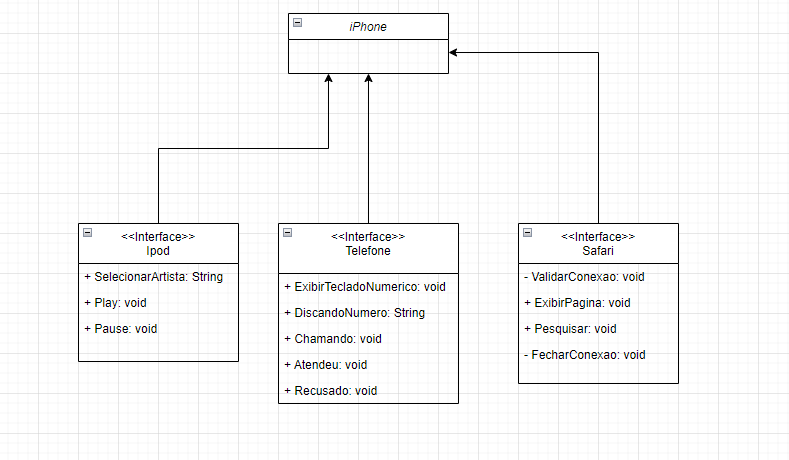
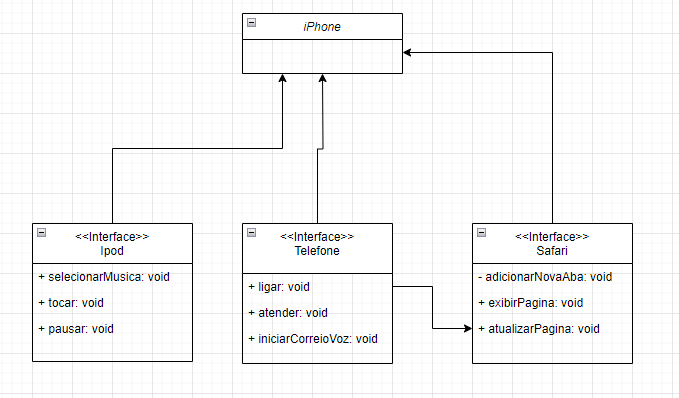
feat: Adjustments to documents and class

diff --git a/src/iphone/phone/iPhone.java b/src/iphone/phone/iPhone.java
@@ -1,0 +1,57 @@
+package iphone.phone;
+
+import iphone.interfaces.Ipod;
+import iphone.interfaces.Safari;
+import iphone.interfaces.Telefone;
+
+public class iPhone implements Safari, Telefone, Ipod{
+
+    @Override
+    public void selecionarMusica() {
+        System.out.println("Musica selecionada.");
+    }
+    
+    @Override
+    public void tocar() {
+        System.out.println("Musica tocando..");
+    }
+
+    @Override
+    public void pausar() {
+        System.out.println("Musica pausada.");
+    }
+    
+    @Override
+    public void ligar() {
+        System.out.println("Ligando");
+    }
+    
+    @Override
+    public void iniciarCorreioDeVoz() {
+        System.out.println("Iniciando correio de voz...");
+    }
+    
+    @Override
+    public void atender() {
+        System.out.println("Iniciando chamada");
+    }
+    
+    @Override
+    public void exibirPagina() {
+        System.out.println("Exibindo pagina");
+    }
+    
+    @Override
+    public void adicionarNovaAba() {
+        System.out.println("Adicionando nova aba.");
+    }
+
+    @Override
+    public void atualizarPagina() {
+        System.out.println("Pagina atuaizada");
+    }
+
+    
+  
+    
+}

diff --git a/src/iphone/user/User.java b/src/iphone/user/User.java
@@ -5,10 +5,10 @@ import iphone.phone.iPhone;
 public class User {
     public static void main(String[] args) {
         iPhone iphone = new iPhone();
-        iphone.exibirPagina();
 
-        iphone.pesquisar();
-        
-        
+        iphone.exibirPagina();
+        iphone.adicionarNovaAba();
+        iphone.atualizarPagina();
+
     }
 }

diff --git a/src/iphone/interfaces/Safari.java b/src/iphone/interfaces/Safari.java
@@ -1,11 +1,10 @@
 package iphone.interfaces;
 
 public interface Safari {
-    public void validarConexao();
     public void exibirPagina();
+    public void adicionarNovaAba();
+    public void atualizarPagina();
     
-    public void pesquisar();
-    public void fecharConexao();
 
     
 }

diff --git a/src/iphone/interfaces/Telefone.java b/src/iphone/interfaces/Telefone.java
@@ -1,0 +1,8 @@
+package iphone.interfaces;
+
+public interface Telefone {
+    public void ligar();
+    public void iniciarCorreioDeVoz();
+    public void atender();
+   
+}

diff --git a/src/iphone/interfaces/Ipod.java b/src/iphone/interfaces/Ipod.java
@@ -1,0 +1,7 @@
+package iphone.interfaces;
+
+public interface Ipod {
+    public void selecionarMusica();
+    public void tocar();
+    public void pausar();
+}

diff --git a/README.md b/README.md
@@ -1,4 +1,16 @@
 # desafio-poo-UML
- Desafio do bootcamp de Java focado em interfaces em POO.
+### Desafio do bootcamp de Java focado em interfaces em POO.
+
+*POO - Desafio*
+- Modelagem e diagramação da representação em UML e Código no que se refere ao componente iPhone.
+
+Elabore em uma ferramenta de UML de sua preferência a diagramação das classes e interfaces com a proposta de representar os papéis do iPhone de: Reprodutor Musicial, Aparelho Telefônico e Navegador na Internet. Em seguida crie as classes e interfaces no formato de arquivos .java.
+
+**Comportamentos esperados:**
+Reprodutor Musicial: tocar, pausar, selecionarMusica.
+Aparelho Telefônico: ligar, atender, iniciarCorreioVoz.
+Navegador na Internet: exibirPagina, adicionarNovaAba, atualizarPagina.
+
+## Diagrama feito com draw.io:
 
 <img src="./Docs/Diagrama-POO-iphone.png" >
